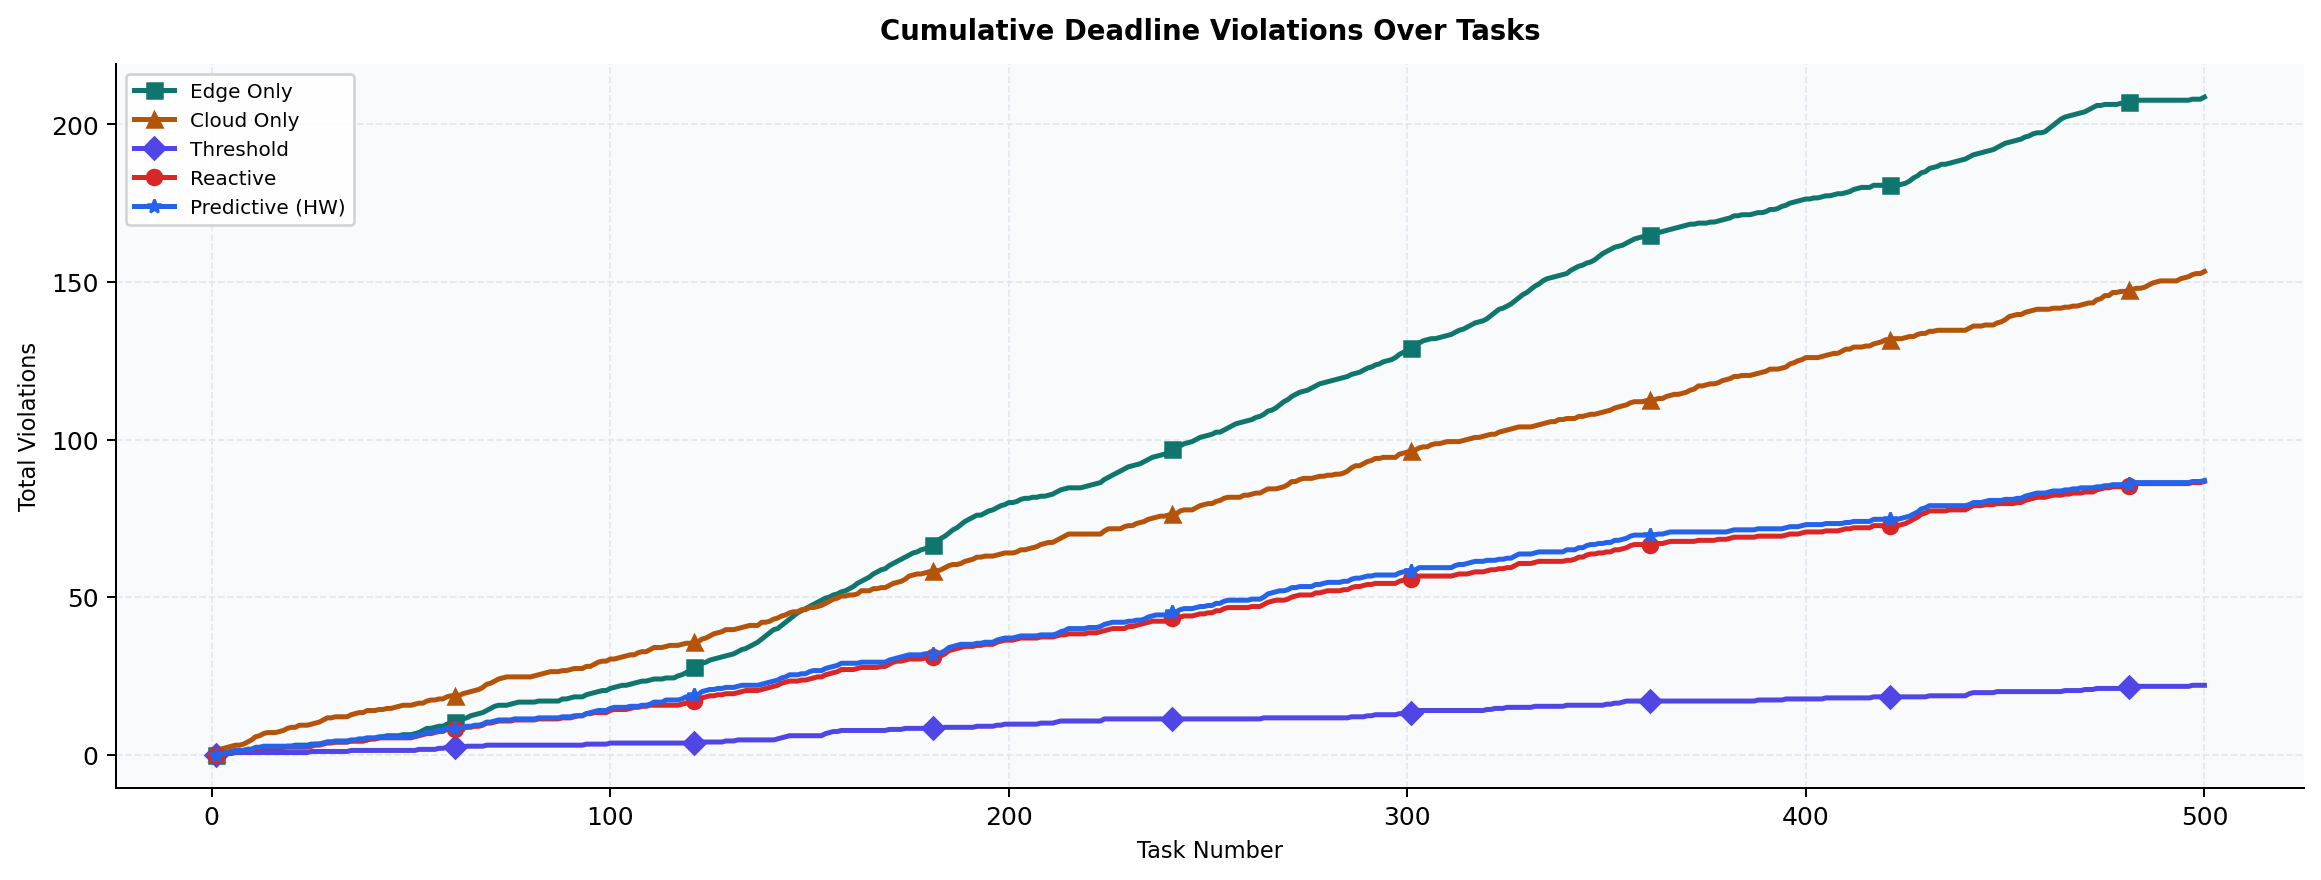
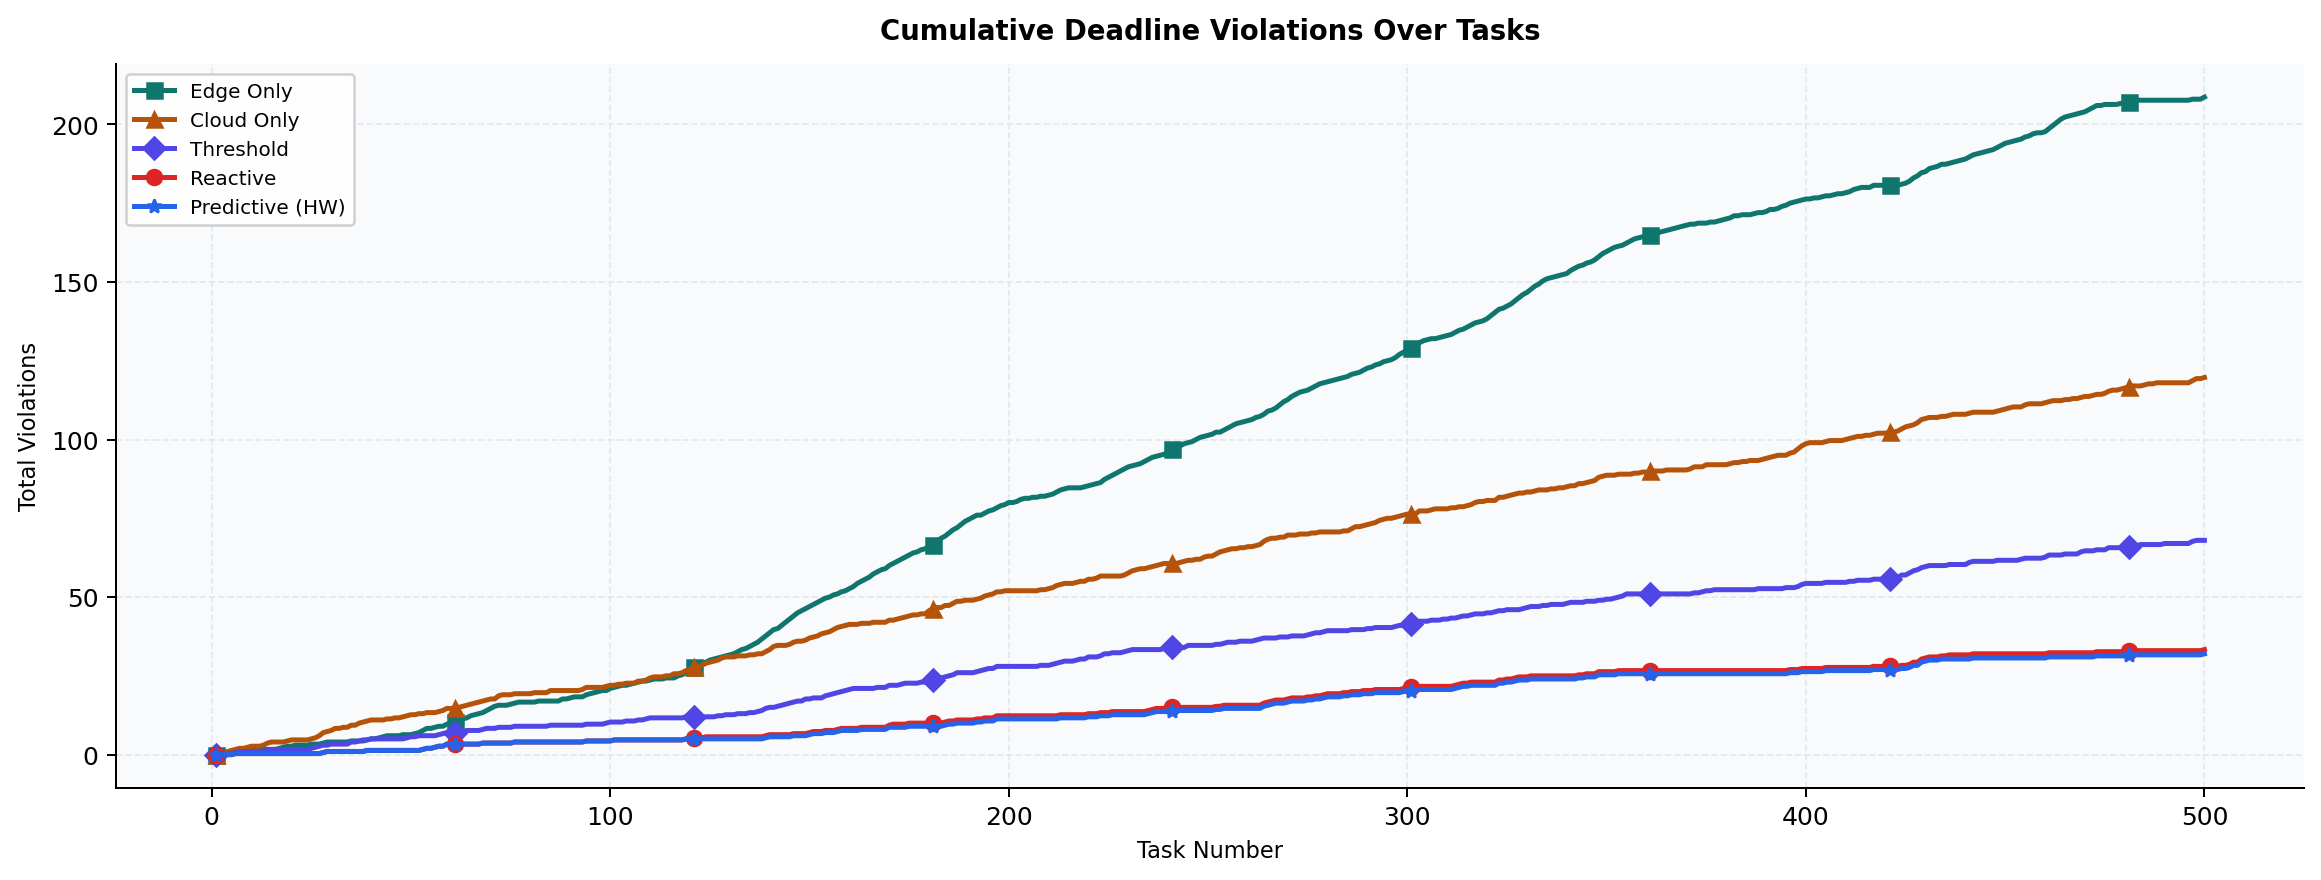
last version

diff --git a/edge/decision_engine.py b/edge/decision_engine.py
@@ -102,17 +102,16 @@ class DecisionEngine:
     ):
         edge_backlog = current_edge_backlog
         if predicted_edge_backlog is not None:
-            edge_backlog = max(
-                current_edge_backlog,
-                0.85 * predicted_edge_backlog + 0.15 * current_edge_backlog,
-            )
+            # Use prediction directly — if it sees congestion rising ahead,
+            # weight it strongly so we offload BEFORE the spike hits.
+            # If prediction < current, trust it (congestion easing → prefer edge).
+            rising = predicted_edge_backlog > current_edge_backlog
+            w_pred = 0.75 if rising else 0.55
+            edge_backlog = w_pred * predicted_edge_backlog + (1 - w_pred) * current_edge_backlog
 
         cloud_backlog = current_cloud_backlog
         if predicted_cloud_backlog is not None:
-            cloud_backlog = max(
-                current_cloud_backlog,
-                0.75 * predicted_cloud_backlog + 0.25 * current_cloud_backlog,
-            )
+            cloud_backlog = 0.65 * predicted_cloud_backlog + 0.35 * current_cloud_backlog
 
         edge_cost, edge_terms = self.compute_cost(task, edge_estimate, edge_backlog)
         cloud_cost, cloud_terms = self.compute_cost(task, cloud_estimate, cloud_backlog)
